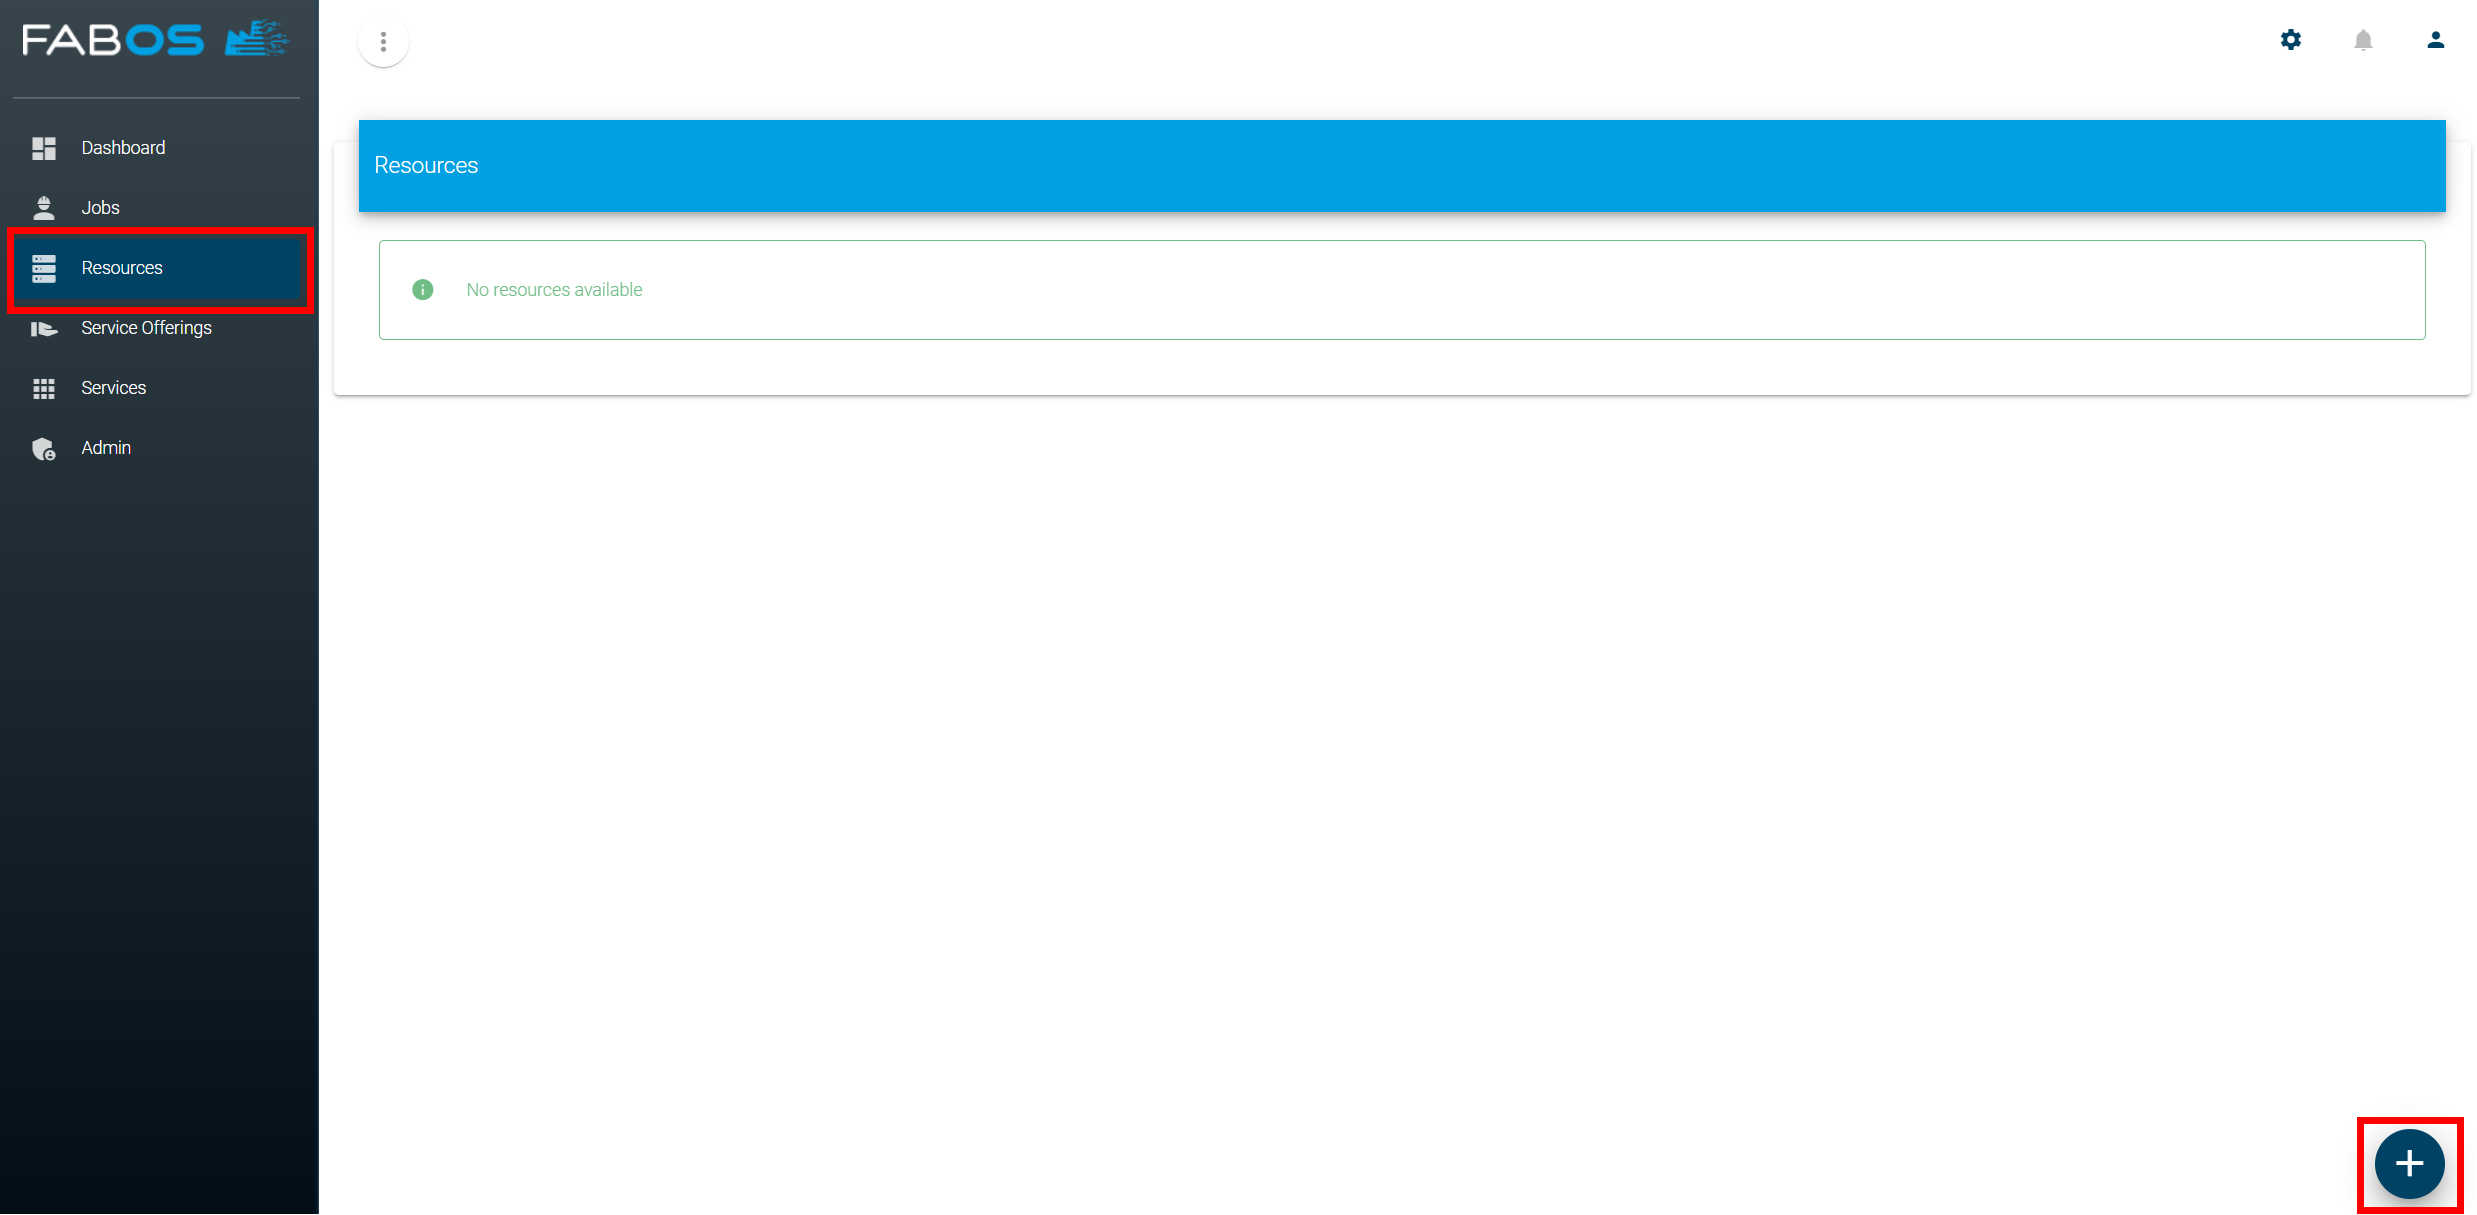
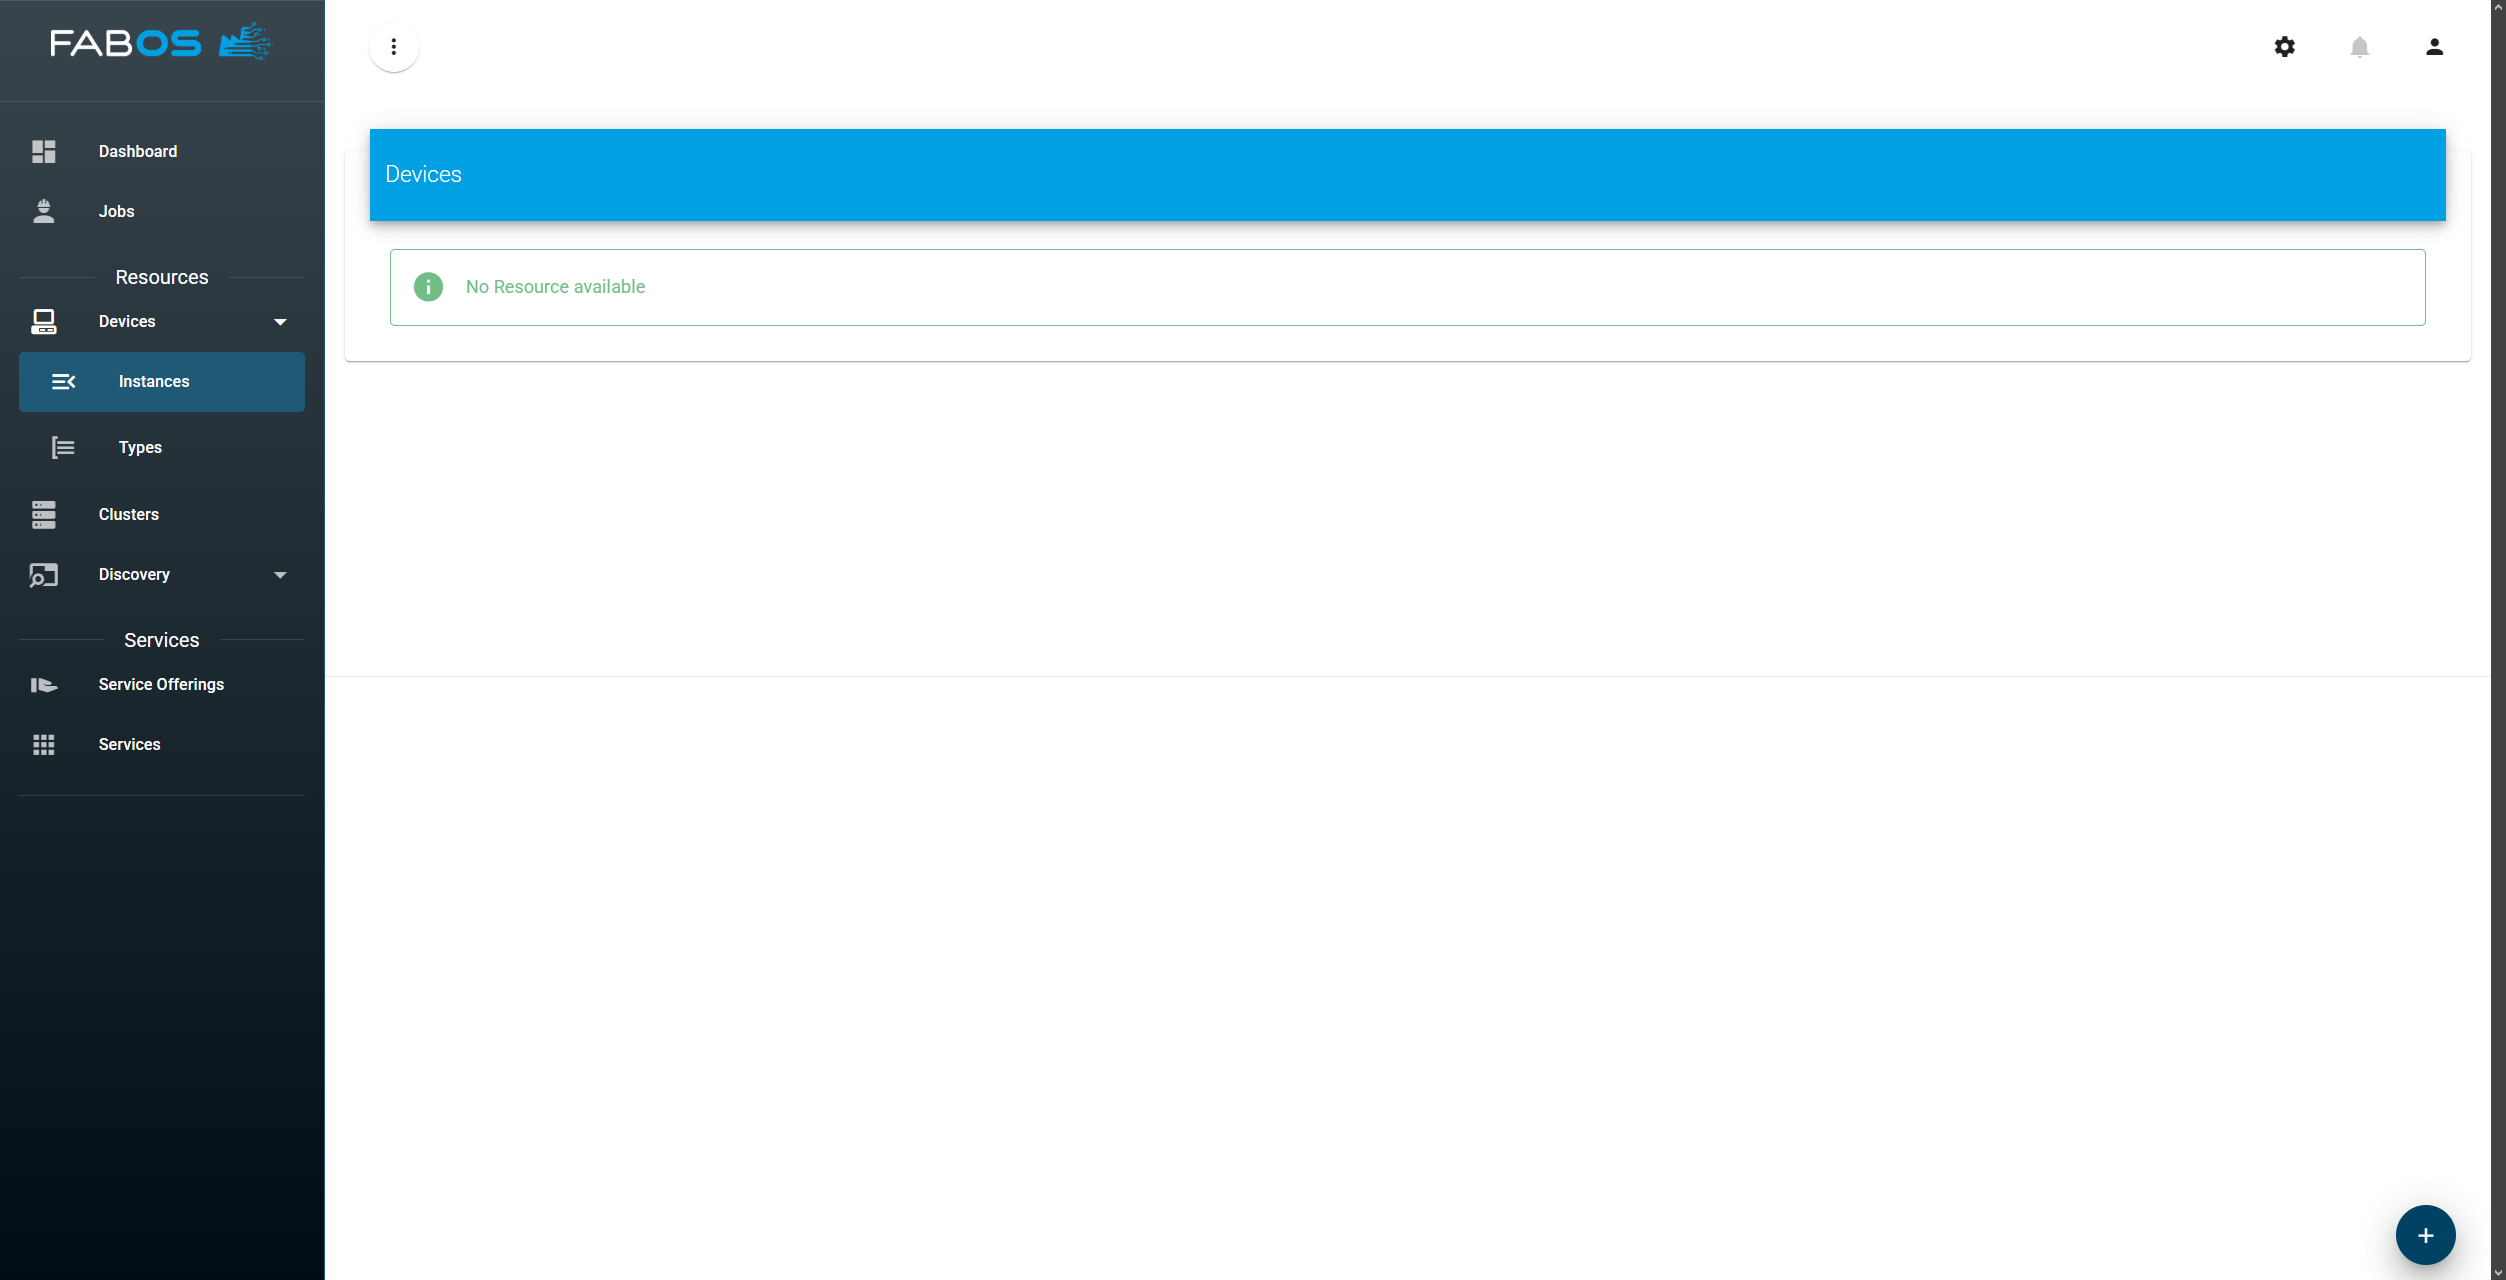
Update documentation for Service Lifecycle Management setup and resource addition steps

diff --git a/docs/docs/getting-started/first-steps/step1-add-resource.md b/docs/docs/getting-started/first-steps/step1-add-resource.md
@@ -5,16 +5,51 @@ prev: /docs/getting-started/first-steps/
 
 # Step 1: Add a resource
 
-Log in to the Service Lifecycle Management user interface running on port 8080 of your host (e.g. http://myhost.local:8080). If not changed, default user is `fabos` with password `password`.
+Log in to the Service Lifecycle Management (SLM) user interface of your host (e.g. https://myhost.local). As the SLM
+comes with a self-signed https certificate you will get a warning in your browser when trying to access the UI for the first time.
+You can ignore this warning and proceed to the UI:
 
-First, you need to add a resource which will be managed by the Service Lifecycle Management. Go to the `Resources` section and click on the `+` button in the lower right corner:
+![ssl-warning](/img/figures/first-steps/first-steps-step0-ignore-self-signed-cert.png)
+
+If not changed, default user is `fabos` and password `password`.
+
+First, you need to add a resource which will be managed by the Service Lifecycle Management. 
+
+::: info GO TO
+Devices > Instances
+:::
+
+...and click on the `+` button in the lower right corner:
+
 ![first-steps-step1-add-resource-button](/img/figures/first-steps/first-steps-step1-add-resource-button.png)
 
-Select `ADD EXISTING HOST`, enable `SSH access to resource` and enter the credentials of your device:
-![first-steps-step1-add-resource-dialog](/img/figures/first-steps/first-steps-step1-add-resource-dialog.png)
+Enter hostname (if not available choose as you like), a valid IP address and click on `Create Device`:
+
+![first-steps-step1-add-device-dialog](/img/figures/first-steps/first-steps-step1-add-device-dialog.png)
+
+If you do have remote access to the device select `Connection Type`, `Connection Port` and `Credential Type` in the next 
+step. Otherwise click `Skip` to add the device without connection information. You can add this information later on if needed.
+
 ::: warning ATTENTION
-User must be in group `sudo`
+User must be in group `sudo` in case you have selected `ssh` as `Connection Type`.
 :::
+
+Depending on which `Credential Type` you have selected, you will be asked to enter the corresponding credentials.
+For example, if you have selected `Username / Password` you need to enter a valid username and password for the device
+and a credential name:
+
+::::tabs
+== Username / Password
+![first-steps-step1-add-resource-credentials-dialog-username-password](/img/figures/first-steps/first-steps-step1-set-cred-username-password.png)
+==
+
+== SSH Key
+![first-steps-step1-add-resource-credentials-dialog-ssh-key](/img/figures/first-steps/first-steps-step1-set-cred-ssh-key.png)
+==
+::::
+
+Finally, finish adding the device by click `Add Remote Access`.
+
 
 As a result you should see your add device as resource in the overview:
 ![first-steps-step1-add-resource-result](/img/figures/first-steps/first-steps-step1-add-resource-result.png)

diff --git a/docs/docs/getting-started/first-steps/index.md b/docs/docs/getting-started/first-steps/index.md
@@ -15,11 +15,11 @@ In this short tutorial you will learn how to manage a resource using Service Lif
 ## Prerequisites
 * Installed Service Lifecycle Management instance (see [Installation](/docs/getting-started/installation))
 * A device with one of the following operating systems 
-    * Ubuntu: 18.04, 20.04, 21.10, 22.04
+    * Ubuntu: 18.04, 20.04, 21.10, 22.04, 24.04
     * CentOS: 7, 8 
     * Raspbian
 ::: tip INFO
-**Other operating systems may work, but were not tested yet**
+**Other operating systems may work, but are not tested yet**
 :::
 
 * SSH access to the device via username and password
